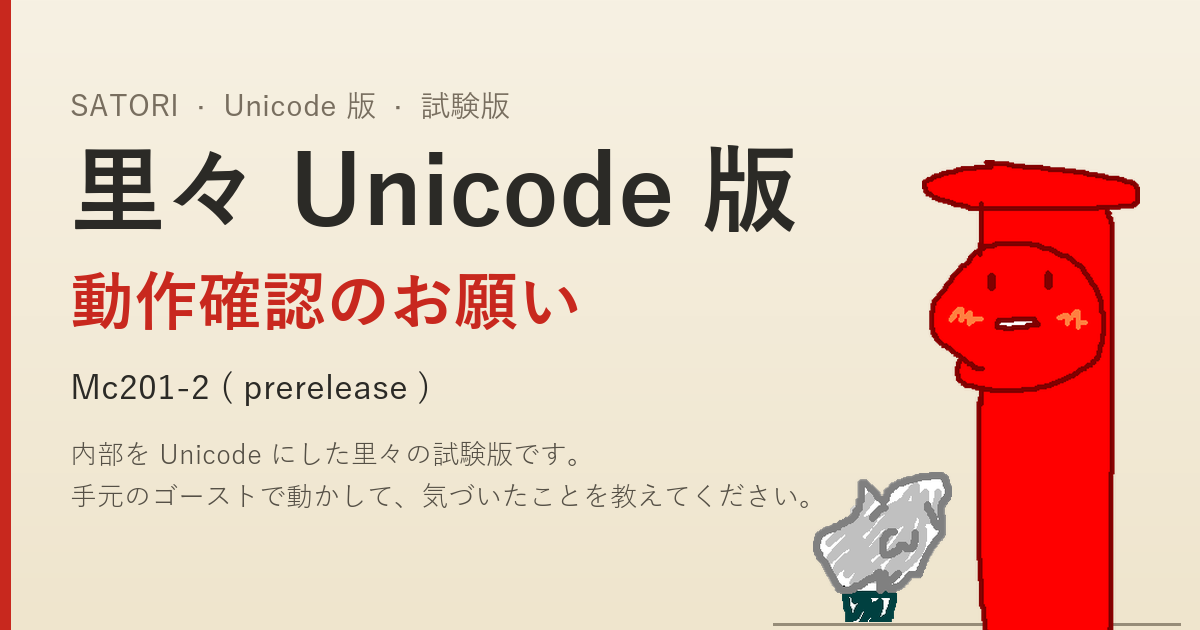
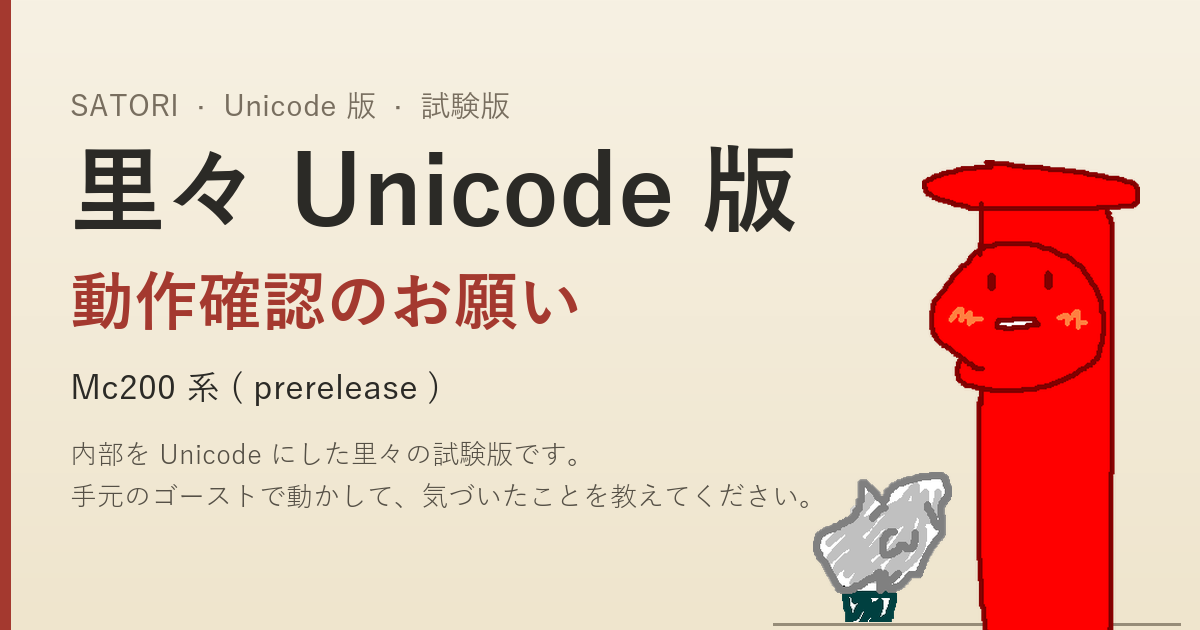
試験版のお知らせをMc200系表記にし、ダウンロード先をReleases一覧（最新のPre-release）に変更
🌹 Polished by Claudia

Changed region(s): [[0.0617, 0.4222, 0.4933, 0.5429], [0.0, 0.0, 0.0308, 1.0], [0.1233, 0.573, 0.37, 0.6333]]

diff --git a/other/satori2-prerelease.md b/other/satori2-prerelease.md
@@ -8,7 +8,7 @@
 
 <div class="s2-lead" markdown>
 
-**里々の内部を Unicode にした試験版（Mc201-2）を公開しました。**
+**里々の内部を Unicode にした試験版（Mc200 系）を公開しました。**
 
 辞書に絵文字や Shift_JIS にない文字を書けるようになり、UTF-8 の辞書も読めます。その一方で、20 年以上使われてきた仕組みの土台を入れ替えたので、**作者ひとりの手元では確かめきれていない部分が確実に残っています。**
 
@@ -18,7 +18,7 @@
 
 <div class="s2-cta" markdown>
 
-[試験版をダウンロード（GitHub Releases）](https://github.com/ukatech/satoriya-shiori/releases/tag/Mc201-2) [不具合・気づいた点の報告](#報告のしかた) [ACP 版との違い](unicode-changes.md)
+[試験版をダウンロード（GitHub Releases）](https://github.com/ukatech/satoriya-shiori/releases) [不具合・気づいた点の報告](#報告のしかた) [ACP 版との違い](unicode-changes.md)
 
 </div>
 
@@ -69,11 +69,11 @@
 ### 1. とにかく動かしてみる
 
 1. ゴースト全体と、セーブデータのバックアップを取る。
-2. [Releases](https://github.com/ukatech/satoriya-shiori/releases/tag/Mc201-2) の `satori.zip` から `satori.dll` を取り出し、ゴーストの `master` フォルダの `satori.dll` と差し替える。
+2. [Releases](https://github.com/ukatech/satoriya-shiori/releases) の一覧で、いちばん上にある Pre-release（最新の試験版）の `satori.zip` から `satori.dll` を取り出し、ゴーストの `master` フォルダの `satori.dll` と差し替える。
 3. いつもどおりゴーストを起動して、しばらく使ってみる。
 4. 動作に違和感があれば、下の観点を参考に、報告してください。何も起きなければ、それもうれしい報告です（「このゴーストで数日動かして問題なし」の一言で助かります）。
 
-バージョンは `（里々のバージョン）` で確認できます（`phase Mc201-2` と出ます）。
+バージョンは `（里々のバージョン）` で確認できます（`phase Mc2XX-Z` の形で、入れた版の番号が出ます）。
 
 ### 2. 特に見ていただきたい観点
 
@@ -115,7 +115,7 @@ X やうかどんには、次のような内容を書いていただけると、
 
 ```
 ■ バージョン
-（里々のバージョン）の結果: phase Mc201-2
+（里々のバージョン）の結果: phase Mc2XX-Z（実際に出た値）
 OS: Windows 11
 ベースウェア: SSP 2.x.x
 ゴースト: （名前。配布されているもの・自作・その他）

diff --git a/INDEX.md b/INDEX.md
@@ -11,7 +11,7 @@
 
 ## はじめての方へ
 
-- 試験版（Mc201-2）を試して、動作確認に協力したい → [里々 Unicode 版 試験版 ─ 動作確認のお願い](other/satori2-prerelease.md)
+- 試験版（Mc200 系）を試して、動作確認に協力したい → [里々 Unicode 版 試験版 ─ 動作確認のお願い](other/satori2-prerelease.md)
 - 里々って何？ → [里々とは](startup/what-is-satori.md)
 - はじめてゴーストを作りたい → [はじめてのゴースト](startup/getting-started.md)
 - ACP 版（Mc1XX）から Unicode 版（Mc2XX）に移りたい → [ACP 版との違い](other/unicode-changes.md)
